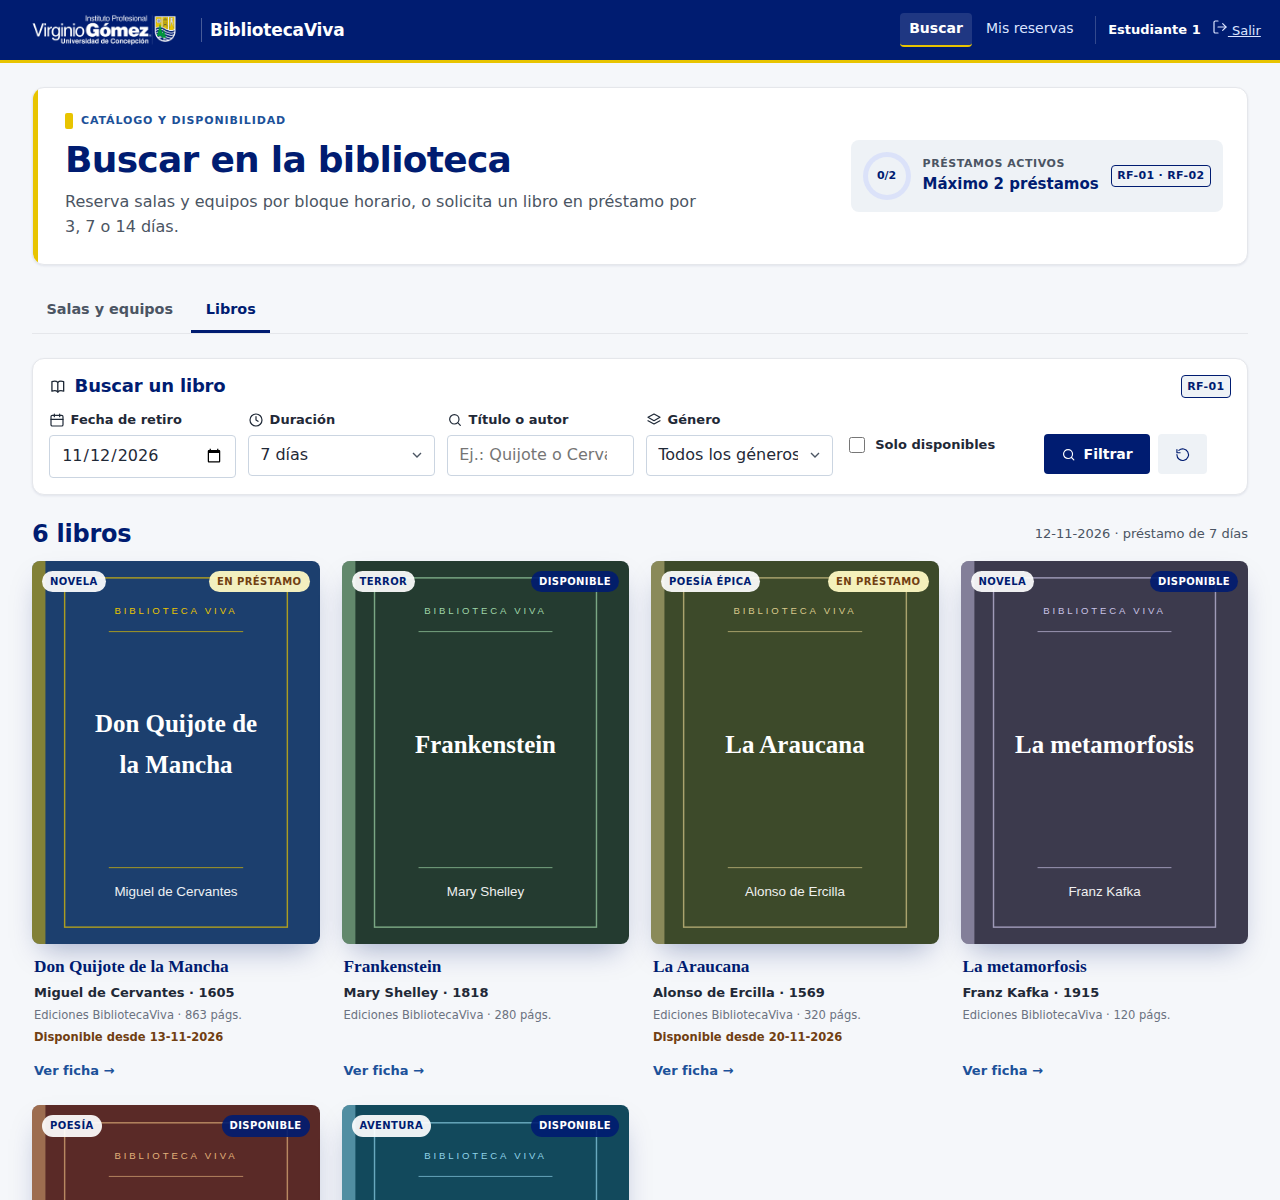
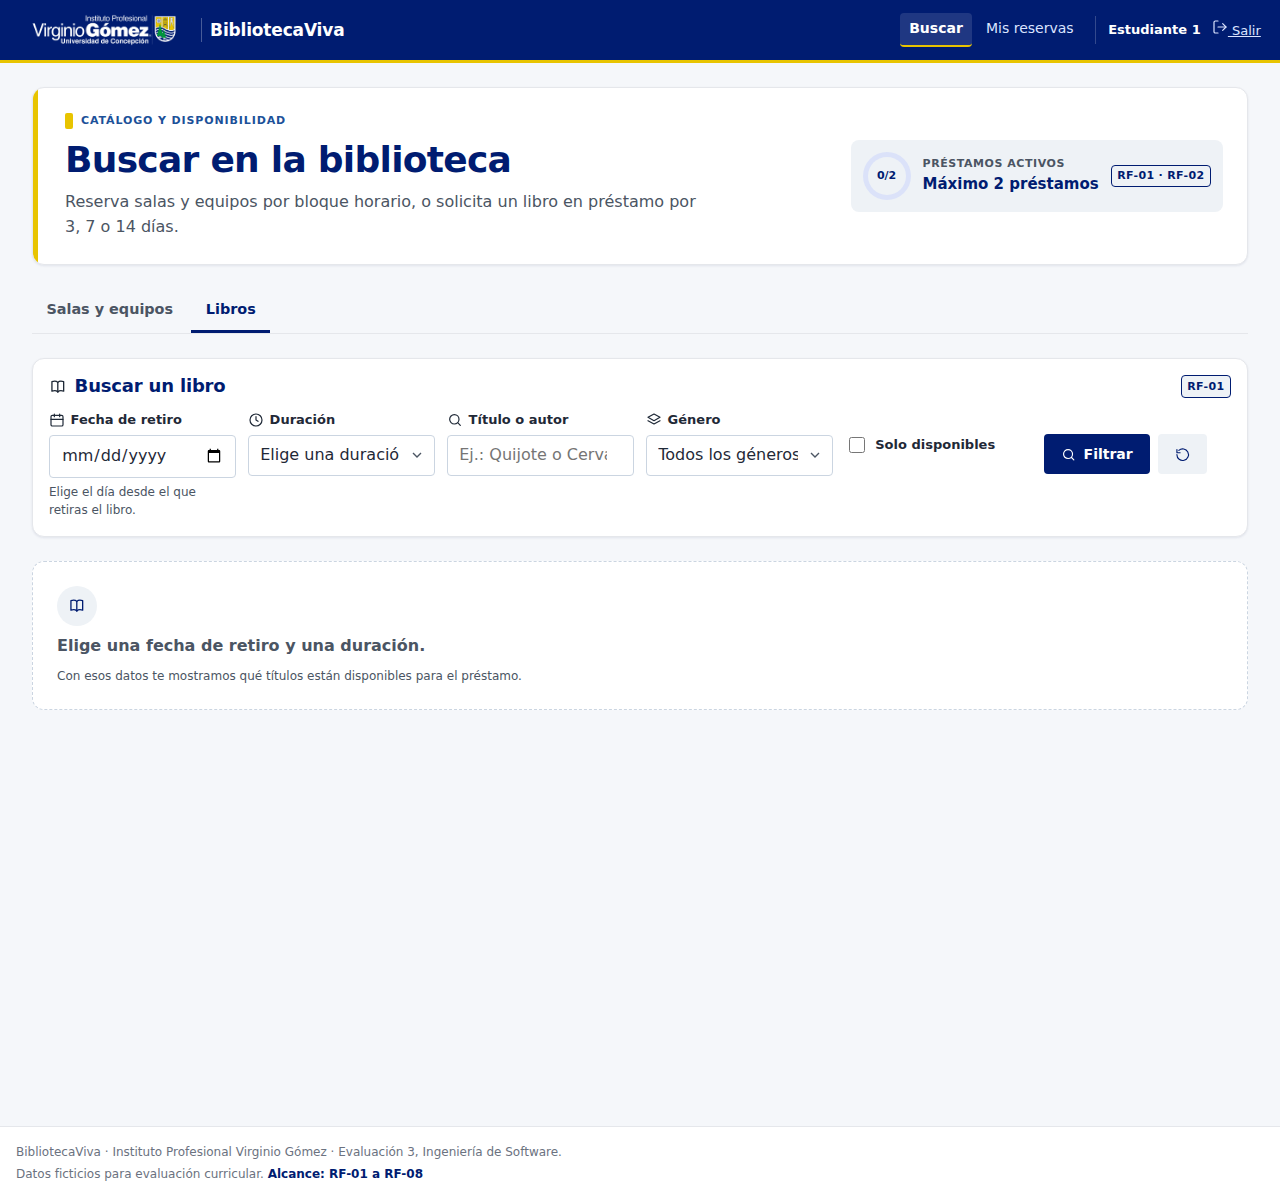
docs(sem3): refresh UI captures for the S3 changes (SEM3-T01)

diff --git a/docs/week-03/evidence/README.md b/docs/week-03/evidence/README.md
@@ -13,17 +13,20 @@ Carpeta `rnf-02/`. Capturas de las seis pantallas del MVP en dos resoluciones:
 | Mis reservas | `rnf-02-mis-reservas-360.png` | `rnf-02-mis-reservas-1280.png` |
 | Panel bibliotecario | `rnf-02-bibliotecario-360.png` | `rnf-02-bibliotecario-1280.png` |
 
-**Cómo se generaron (2026-11-11).** Sobre la base `db.sqlite3` cargada con
-`python manage.py seed --reset` y con `DEMO_MODE=1`, `DEMO_NOW=2026-11-10T10:30:00`:
+**Cómo se generaron (2026-11-13).** Sobre la base cargada con
+`python manage.py seed --reset` y con el servidor local en marcha:
 
-1. Cada pantalla se solicitó con el cliente de pruebas de Django usando la sesión
-   del rol correspondiente (`estudiante1@example.com`, `bibliotecario1@example.com`).
-2. El HTML devuelto por la aplicación se guardó y se renderizó en Chromium
-   headless con ventana de 360×900 y 1280×900; la hoja de estilos es la misma que
-   sirve Django (`reservas/static/reservas/styles.css`).
-3. Único cambio en el HTML: las rutas `/static/` se resolvieron como archivo local
-   para el render, porque no había servidor HTTP levantado. No se modificó ningún
-   template, dato ni estilo.
+1. Chromium headless (Playwright) abrió la aplicación real y se autenticó con los
+   usuarios ficticios del seed (`estudiante1@example.com`,
+   `estudiante2@example.com`, `bibliotecario1@example.com`).
+2. Cada pantalla se capturó con la ventana fijada en 360×900 y 1280×900, sin
+   modificar templates, datos ni estilos. Las animaciones se desactivan con
+   `prefers-reduced-motion`.
+3. Las capturas de `../mockups/v2/` usan el mismo procedimiento con ventanas de
+   360×1400 y 1280×1200.
+
+Si la base está vacía o con datos de prueba, las pantallas se ven distintas: para
+reproducirlas hay que ejecutar `python manage.py seed --reset` antes.
 
 **Qué acredita.** Que las seis pantallas renderizan sin desbordes ni solapamientos
 a 360 px y 1280 px, con la barra superior, los filtros, las tarjetas y la tabla

diff --git a/docs/week-03/mockups/v2/README.md b/docs/week-03/mockups/v2/README.md
@@ -1,7 +1,7 @@
 # Mockups v2 — UI implementada
 
-> Capturas reales de la aplicación Django al cierre de la revisión docente de la
-> semana 3. No son renders de Stitch: son evidencia de la interfaz implementada.
+> Capturas reales de la aplicación Django al cierre de la corrección S3. No son
+> renders de Stitch: son evidencia de la interfaz implementada.
 
 ## Relación con Stitch v1
 
@@ -18,11 +18,18 @@
 | Pantalla | 1280 px | 360 px |
 |---|---|---|
 | Login sin credenciales demo | `login-1280.png` | `login-360.png` |
-| Búsqueda · Libros | `buscar-libros-1280.png` | `buscar-libros-360.png` |
-| Búsqueda · Salas y equipos (todos los estados) | `buscar-recursos-1280.png` | `buscar-recursos-360.png` |
-| Error de validación por campo | `error-libros-1280.png` | `error-libros-360.png` |
+| Búsqueda · Libros (filtros vacíos) | `buscar-libros-1280.png` | `buscar-libros-360.png` |
+| Búsqueda · Salas y equipos (filtros vacíos) | `buscar-recursos-1280.png` | `buscar-recursos-360.png` |
+| Error de validación al enviar sin filtros | `error-libros-1280.png` | `error-libros-360.png` |
 | Ficha de libro en una card | `ficha-1280.png` | `ficha-360.png` |
-| Panel del bibliotecario v2 | `panel-1280.png` | `panel-360.png` |
+| Panel · Operación | `panel-1280.png` | `panel-360.png` |
+| Panel · Inventario filtrado por “Sala” | `panel-inventario-1280.png` | `panel-inventario-360.png` |
+| Panel · Reservas del día con acciones | `panel-reservas-1280.png` | `panel-reservas-360.png` |
+| Panel · Validación | `panel-validacion-1280.png` | `panel-validacion-360.png` |
+
+Tamaños: 1280×1200 y 360×1400. Se generaron con Chromium headless contra el
+servidor local, con la sesión de los usuarios ficticios del seed y la ventana
+fijada en cada resolución.
 
 ## Nota para el informe
 
